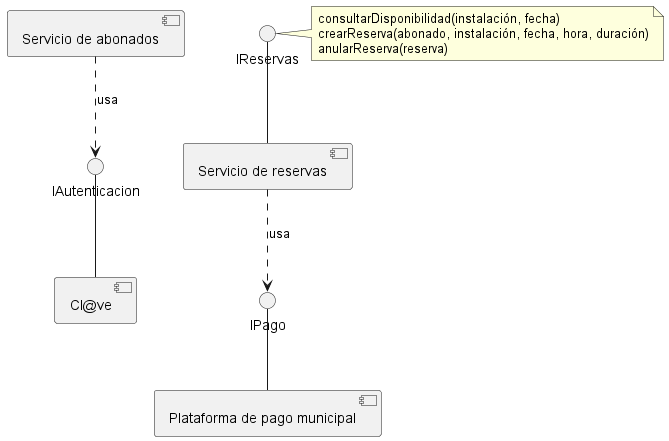
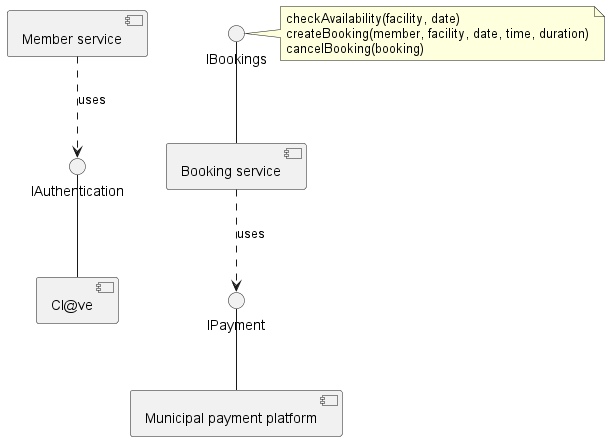
Translate the diagrams of the English sample to English
The English sample used the Spanish diagrams. Its PlantUML sources are
rewritten with the names of the English model (Member, Booking, Facility,
holds, take_place_in, createBooking...) and its images regenerated, keeping
the file names that its figures reference. The README no longer says that
its diagrams are in Spanish.

diff --git a/README.md b/README.md
@@ -28,7 +28,8 @@ one of the project archetypes (in English or Spanish, depending on the language 
   MADEJA)** (`sample-sports-center` / `ejemplo-centro-deportivo`): a complete sample SRS and
   SAD of a booking system for the facilities of a municipal sports center, with the same
   guidance comments followed by examples of the archetypes (organizations, people and
-  figures are fictitious). The diagrams of the English example are in Spanish.
+  figures are fictitious). The PlantUML sources of the diagrams (`.puml`) are in the
+  `assets` folder of each example, next to their images.
 
 The documents of both project archetypes can also be added to an existing project as document
 archetypes.
